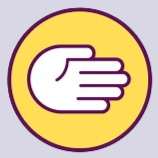
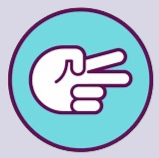
9th commit
Added partial logic of the 5.Rock Paper Scissors

diff --git a/5. Rock Paper scissors/index.html b/5. Rock Paper scissors/index.html
@@ -23,47 +23,46 @@
               <li>
                 <img
                   class="img-detail rock"
-                  src="images/img1.png"
+                  src="images/img0.png"
                   alt="Rock image"
                 />
               </li>
               <li>
                 <img
                   class="img-detail paper"
-                  src="images/img2.png"
+                  src="images/img1.png"
                   alt="Paper image"
                 />
               </li>
               <li>
                 <img
                   class="img-detail scissors"
-                  src="images/img3.png"
+                  src="images/img2.png"
                   alt="Scissors image"
                 />
               </li>
             </ul>
 
-            <span class="img-name">ROCK</span>
+            <span class="img-name"></span>
           </div>
 
           <!-- Player two side (right side) -->
           <div class="field field--2">
             <span class="scores">
-              Comp. score <span class="score1">0</span></span
+              Opp. score <span class="score1">0</span></span
             >
-            <span class="pick">Comp. picked</span>
+            <span class="pick">Opp. picked</span>
 
             <ul class="imgs-list">
               <li>
                 <img
                   class="img-detail tick"
-                  src="images/img5.png"
+                  src="images/img3.png"
                   alt="Tick image placeholder"
                 />
               </li>
             </ul>
-
-            <span class="img-name">SCISSORS</span>
+            <span class="img-name"></span>
           </div>
         </div>
       </div>

diff --git a/5. Rock Paper scissors/script.js b/5. Rock Paper scissors/script.js
@@ -1,0 +1,27 @@
+const container = document.querySelector(".container");
+const imgList = document.querySelectorAll(".imgs-list");
+const imgOpp = document.querySelector(".tick");
+const imgName = document.querySelectorAll(".img-name");
+
+container.addEventListener("click", function (e) {
+  if (!e.target.classList.contains("img-detail")) return;
+  const clicked = e.target;
+  if (clicked.closest(".field--2")) return;
+
+  if (clicked.classList.contains("rock")) {
+    imgList[0].innerHTML = `<li> <img class="img-detail rock" src="images/img0.png" alt="Rock image" /> </li>`;
+    imgName[0].textContent = "ROCK";
+  } else if (clicked.classList.contains("paper")) {
+    imgList[0].innerHTML = `<li><img class="img-detail paper" src="images/img1.png" alt="Paper image" /></li>`;
+    imgName[0].textContent = "PAPER";
+  } else if (clicked.classList.contains("scissors")) {
+    imgList[0].innerHTML = ` <li> <img class="img-detail scissors" src="images/img2.png" alt="Scissors image" /> </li>`;
+    imgName[0].textContent = "SCISSORS";
+  }
+
+  const random = Math.floor(Math.random() * 3);
+  imgOpp.src = `images/img${random}.png`;
+  if (random === 0) imgName[1].textContent = "ROCK";
+  else if (random === 1) imgName[1].textContent = "PAPER";
+  else if (random === 2) imgName[1].textContent = "SCISSORS";
+});

diff --git a/5. Rock Paper scissors/style.css b/5. Rock Paper scissors/style.css
@@ -34,8 +34,8 @@ body,
   align-items: center;
   justify-content: center;
   flex-direction: column;
-  padding: 2.4rem 4.8rem;
-  flex: 1 1 0;
+  padding: 2.4rem;
+  width: 35rem;
 }
 
 .scores {
